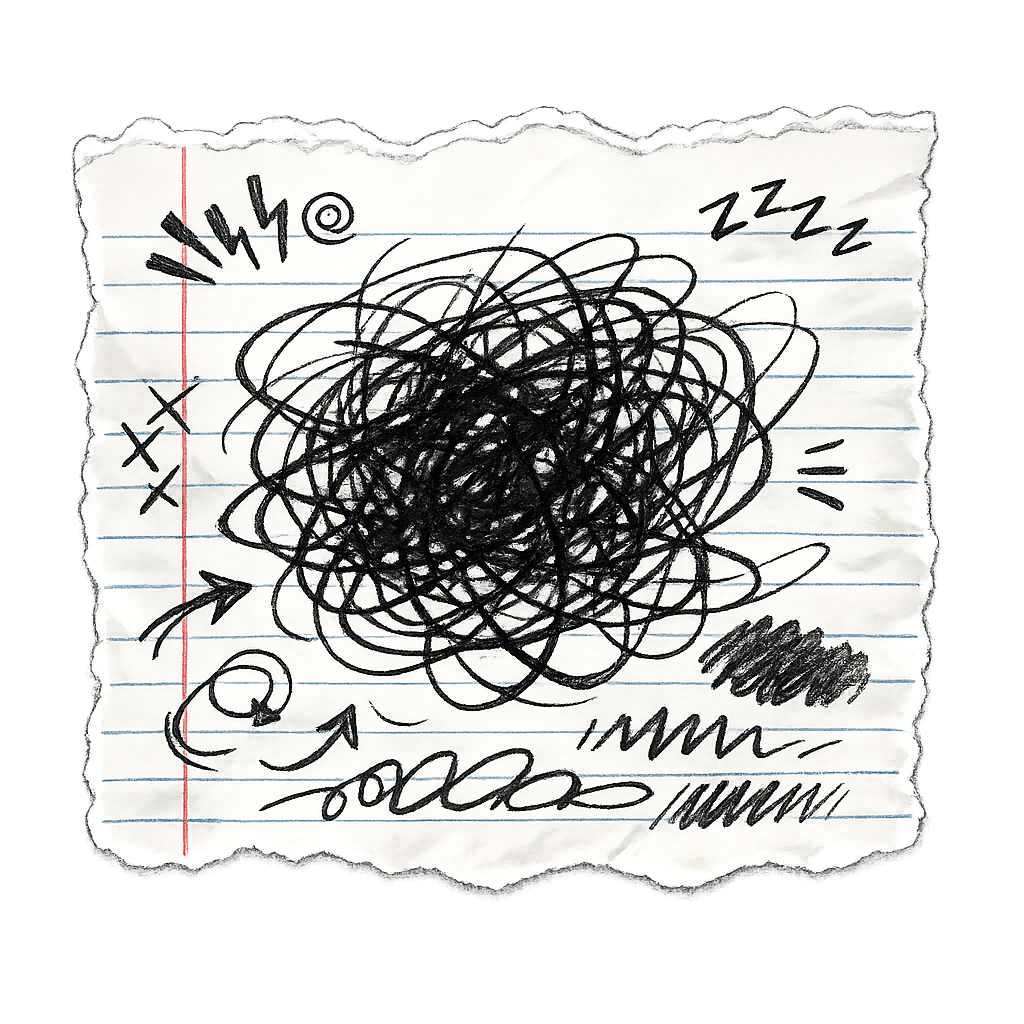
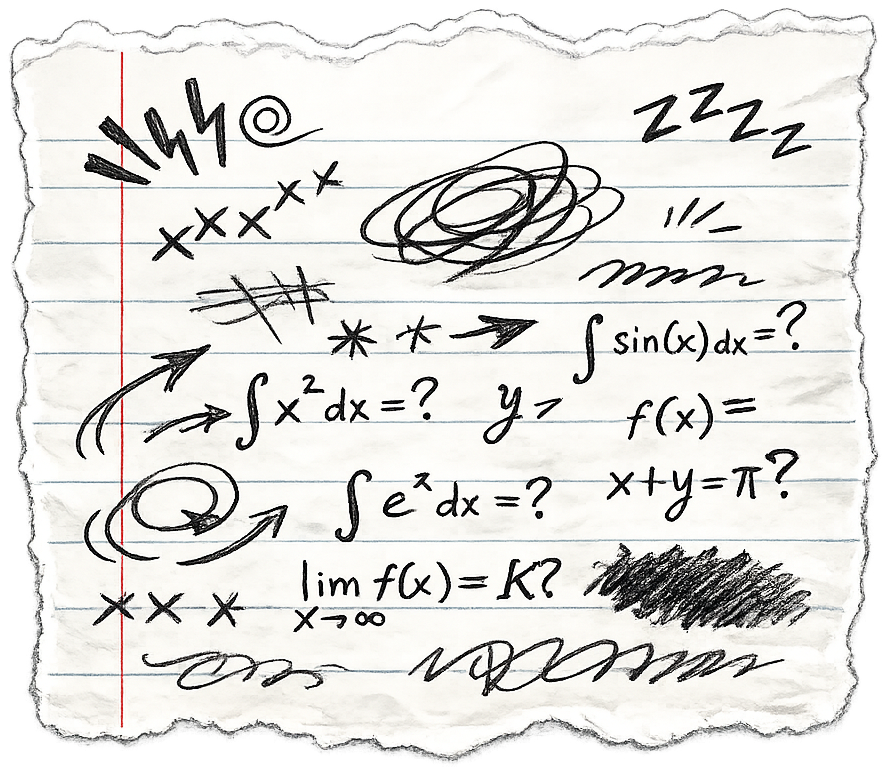
Format updates"

diff --git a/src/consts.ts b/src/consts.ts
@@ -27,7 +27,7 @@ export const site = {
   favicon: '/favicon.svg', // required
   description: 'A personal blog about software, technology, and other things.',
   author: "Jamie", // required
-  avatar: '/avatar.png', // required
+  avatar: '/scribbles.png', // required
   url: 'https://www.outsharked.com', // required
   baseUrl: '', // empty when deployed to apex domain
   motto: '',
@@ -97,9 +97,22 @@ export const categories = [
     href: "/search",
   },
   {
-    name: 'About',
-    iconClass: 'ri-information-line',
-    href: '/about',
+    name: "More",
+    iconClass: "ri-more-fill",
+    href: "javascript:void(0);",
+    children: [
+      {
+        name: 'About',
+        iconClass: 'ri-information-line',
+        href: '/about',
+      },
+      {
+        name: 'Resources',
+        iconClass: 'ri-user-5-line',
+        href: '/friends',
+        target: '_self',
+      },
+    ]
   },
 ]
 

diff --git a/src/styles/index.css b/src/styles/index.css
@@ -243,13 +243,11 @@ menu {
 }
 
 .avatar {
-  border-radius: 50%;
-  padding: 16px;
-  width: 140px;
-  height: 140px;
+  padding: 2px;
+  width: 180px;
+  height: auto;
   object-fit: contain;
   background-color: transparent;
-  box-shadow: 0 0 10px rgba(0, 0, 0, 0.2);
 }
 
 .expressive-code {

diff --git a/src/pages/about/about.md b/src/pages/about/about.md
@@ -15,7 +15,7 @@ Notes, thoughts, discoveries, adventures, and whatever else is interesting to me
 
 ## What's With The Shark
 
-I had another blog hosted at the outsharked.com long time ago, and I made this logo back then. The shark speaks to me.
+I had another blog hosted at outsharked.com a long time ago. I made this logo back then. The shark speaks to me.
 
 ## Nuts and Bolts
 

diff --git a/src/content/blog/hello-world.md b/src/content/blog/hello-world.md
@@ -1,7 +1,8 @@
 ---
-title: "Hello World"
+title: 'Hello World'
 description: "I'm Back."
 date: 2026-02-10
+category: 'general'
 ---
 
 Not that I ever left. I've just been lurking in the shadows.
